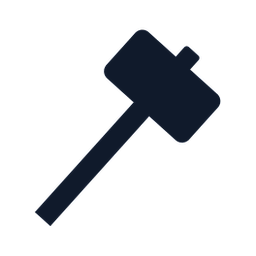
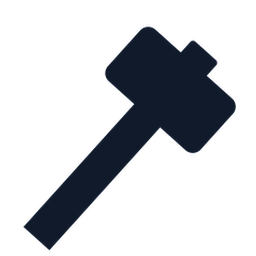
The mallet gets a handle its neighbours would recognise, and its swing stays in the disc

diff --git a/src/client/build-stamp.ts b/src/client/build-stamp.ts
@@ -6,4 +6,4 @@
  * construction: the code may be wrong, or the client may simply be showing the previous
  * version. Two hours of that argument (1 Sep) is what this four-character string ends.
  */
-export const BUILD = '3c2b'
+export const BUILD = 'a663'

diff --git a/tools/ui/normalise-glyphs.py b/tools/ui/normalise-glyphs.py
@@ -20,12 +20,14 @@ fills its own bounding box is taken down by that same tenth. With the 0.62 box t
 use, an open glyph lands at 59.5% of the disc and a solid one at 54.6%, which is the native
 pad's own proportion.
 
-Frames of one animation are normalised AS A GROUP, and the group has two references, not one.
-The SCALE comes from the union of every pose, so no pose is clipped; the CENTRING comes from
-the FIRST file alone, the pose at rest. Centring on the union instead put the menu's three
-bars off the middle of their button, because the alert version carries a pip up in the corner
-and the union stretched to include it (owner, 5 Sep). The rule is general: a badge, a spark or
-a raised hammer moves around the glyph, and it is the glyph that must sit in the middle.
+Frames of one animation are normalised AS A GROUP, on the union of every pose: the swing is
+then centred on the button, which is what a player watches, rather than the resting frame
+being centred and the swing drifting up and out of the disc (owner, 5 Sep). The scale is
+measured AROUND that same centre, so the two never fight and nothing has to be clamped.
+
+A group therefore holds POSES OF ONE OBJECT and nothing else. The menu's alert picture, which
+adds a pip beside the bars rather than moving them, was grouped with the plain one and dragged
+the bars off centre for a picture the scene never draws; it is its own group now.
 
 Idempotent: a file already at the target size and already centred is left untouched, so running
 it twice costs nothing and never resamples an image twice.
@@ -152,20 +154,18 @@ def main():
         images = [Image.open(p).convert('RGBA') for p in paths]
         n = images[0].size[0]
         box = ink_bbox(images)
-        rest = ink_bbox(images[:1])
-        if box is None or rest is None:
+        if box is None:
             continue
-        anchor = ((rest[0] + rest[2]) / 2, (rest[1] + rest[3]) / 2)
-        # The span is measured AROUND THE ANCHOR, not corner to corner: the box that must fit
-        # is the one centred on the pose at rest, so the scale and the centring never fight and
-        # nothing has to be clamped back towards an edge.
+        anchor = ((box[0] + box[2]) / 2, (box[1] + box[3]) / 2)
+        # The span is measured AROUND THE ANCHOR, which for a single picture is its own middle
+        # and for a swing is the middle of the whole movement.
         reach = max(abs(box[0] - anchor[0]), abs(box[2] - anchor[0]),
                     abs(box[1] - anchor[1]), abs(box[3] - anchor[1]))
         span = 2 * reach
         cover = coverage(images, box)
         target = (DENSE_EXTENT if cover > DENSE_COVER else EXTENT) * n
         k = target / span
-        # How far the pose at rest sits from the middle today, in pixels.
+        # How far that centre sits from the middle of the canvas today, in pixels.
         drift = max(abs(anchor[0] - n / 2), abs(anchor[1] - n / 2))
         label = group[0] + (f' (+{len(group) - 1})' if len(group) > 1 else '')
         print(f'{label:34} {span / n * 100:6.1f}% {cover * 100:6.1f}% {target / n * 100:6.1f}% {k:6.3f} {drift:6.1f}')

diff --git a/tools/ui/build-mallet-icon.py b/tools/ui/build-mallet-icon.py
@@ -3,14 +3,18 @@ The BUILD glyph: a wooden mallet, in one mass, with two swing frames.
 
 Drawn after the owner's reference (a line icon of a mallet, 3 Sep), measured rather than
 remembered: the head is a rounded block about 1.8 times as long as it is thick, set across
-the handle; the handle is a straight bar, 0.18 of the head's length wide and 1.3 times as
+the handle; the handle is a straight bar, HALF the head's thickness wide and 1.3 times as
 long as the head, passing THROUGH the head and showing a short square stub on the far side;
 the grip end is cut flat. The whole tool leans so the head sits top-right and the handle
 runs down-left. Nothing is drawn inside the shape: at 56 px on a phone only the silhouette
 survives. A first pass kept an older hammer and hung a cap on the head's END, which is not
 in the reference; this one follows it.
 
-Three poses, rotated about the grip end: raised (22 degrees), halfway (9) and struck (0).
+Three poses, rotated about the grip end: raised (15 degrees), halfway (6) and struck (0).
+The raise was 22, and a tool swung 22 degrees about its grip carries its head across a fifth
+of the icon: on a 104 pixel button the mallet left the middle of the disc and came back, which
+reads as the picture sliding rather than the tool striking (owner, 5 Sep). Fifteen keeps the
+travel near a tenth, which is the movement itself and not a journey.
 The struck pose is the icon at rest; the other two are shown briefly at the start of every
 period when the contextual button offers BUILD, see `Pouce` in src/client/ui-kit.tsx.
 
@@ -27,12 +31,18 @@ SS = 8
 WHITE = (255, 255, 255, 255)
 NAVY = (16, 26, 43, 255)
 TILT = -42          # degrees; the head top-right, the handle down-left
-POSES = {'raised': 22, 'mid': 9, 'struck': 0}
+POSES = {'raised': 15, 'mid': 6, 'struck': 0}
 
 # The upright design, in a 100 x 150 box (x, y), head on top, handle straight down.
+#
+# The handle was 13 wide, 0.18 of the head's length, which is what the reference LINE icon
+# had. Ours is not a line icon: every other verb in the set is a solid mass, and beside them
+# the mallet read as a tool with a stick (owner, 5 Sep: "manche tres fin"). At half the head's
+# thickness it is the same object drawn in the same weight as its neighbours, and the stub
+# that shows above the head follows it, because it is the same piece of wood.
 HEAD = (15, 14, 85, 53)       # 70 long, 39 thick
-STUB = (44, 4, 56, 18)        # the handle's end showing through the top of the head
-HANDLE = (43.5, 40, 56.5, 146)  # 13 wide, to a flat grip end
+STUB = (40.25, 4, 59.75, 18)  # the handle's end showing through the top of the head
+HANDLE = (40.25, 40, 59.75, 146)  # 19.5 wide, half the head's thickness, to a flat grip end
 PIVOT = (50, 144)             # the swing turns about the grip end
 
 
